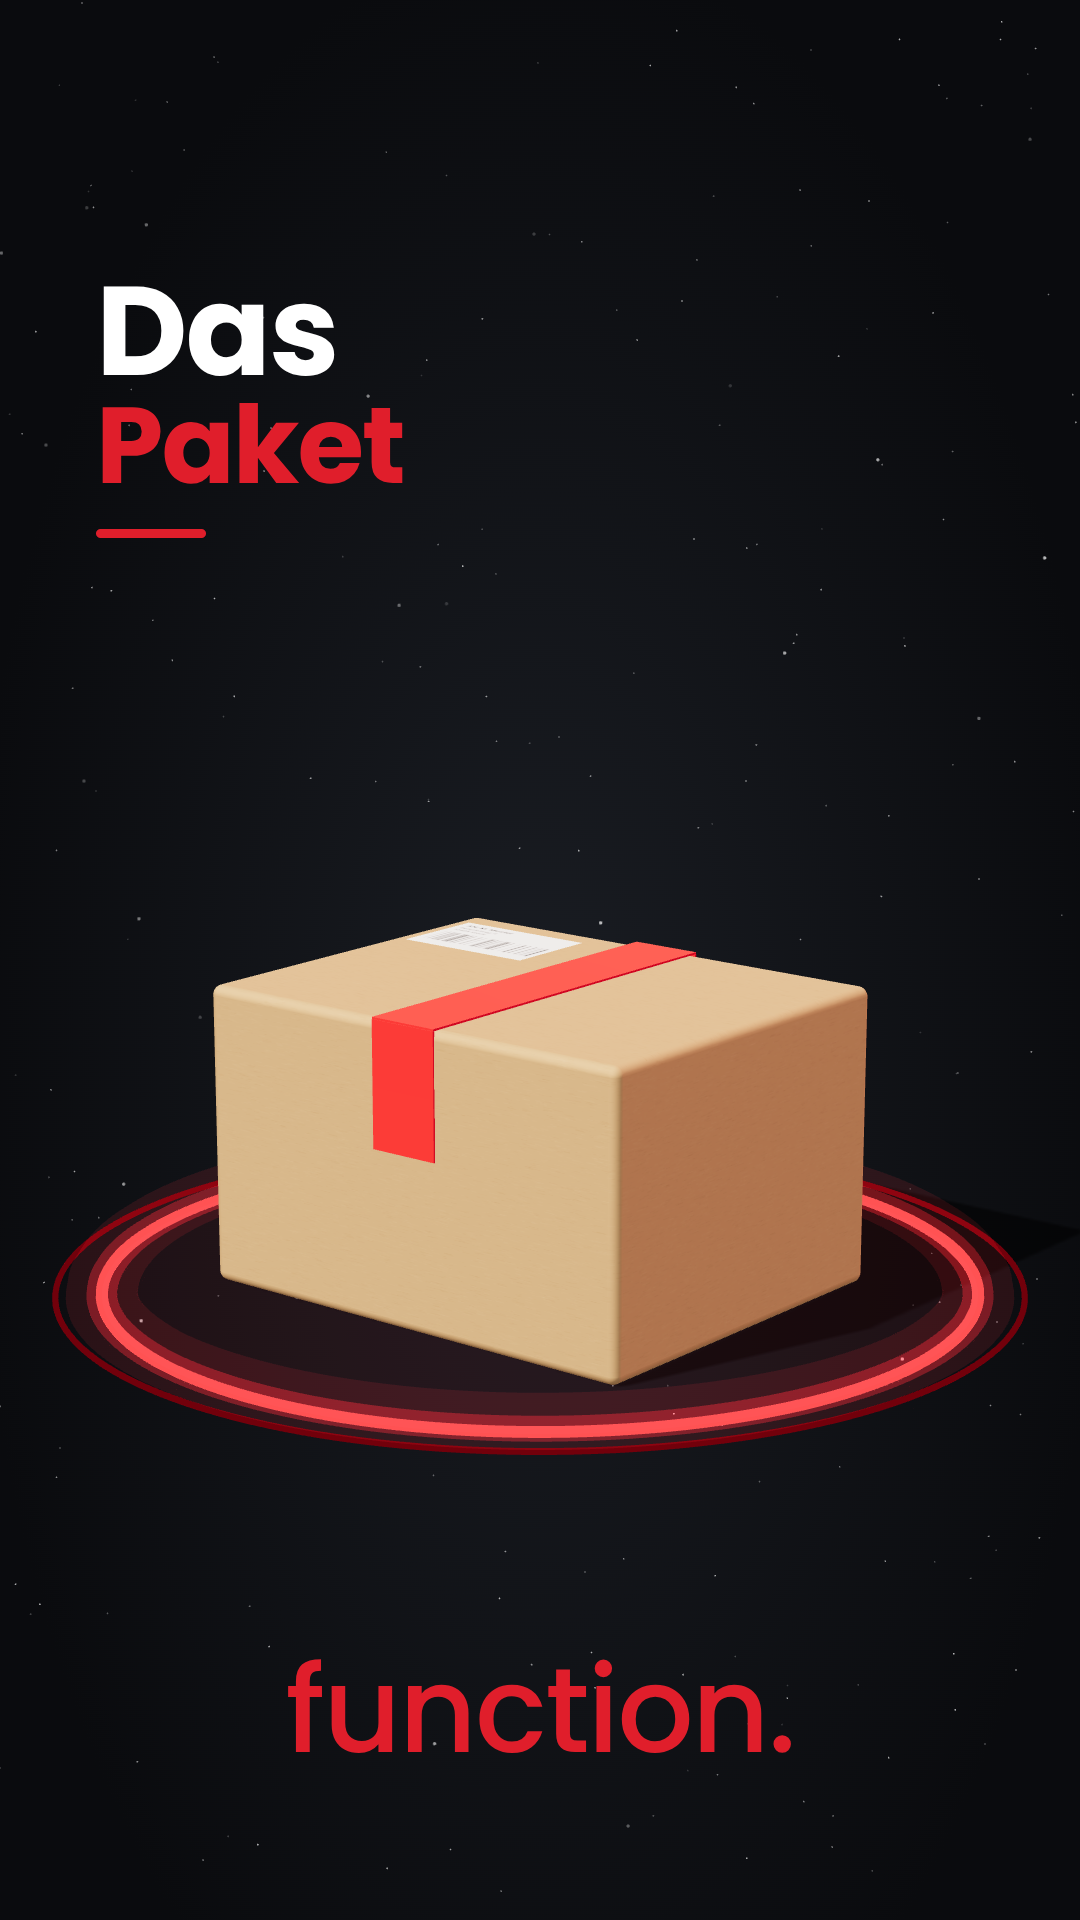
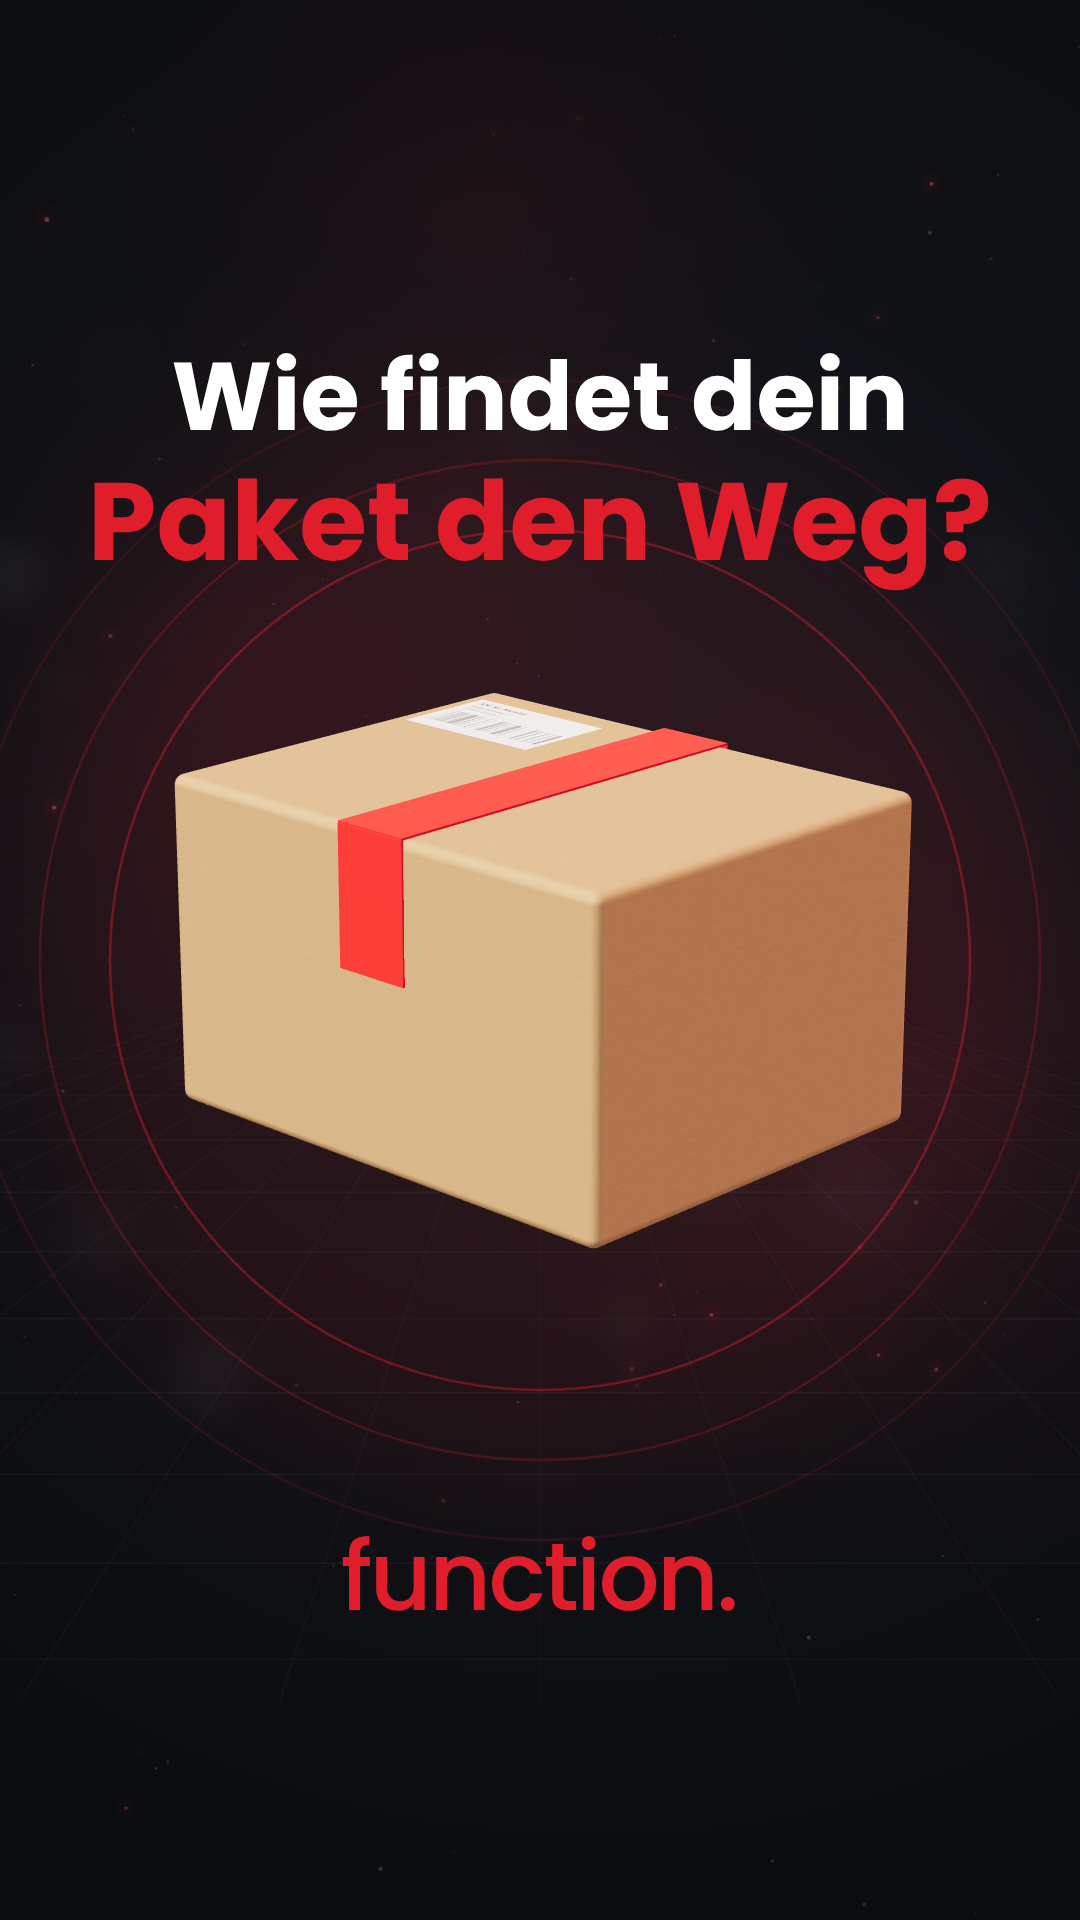
Paket: cover rebuilt 1:1 from old cover template, cover rule in CLAUDE.md
Claude-Session: https://claude.ai/code/session_01JQEQekkBb92rcFjdCYtWsZ

diff --git a/paket-test/cover.html b/paket-test/cover.html
@@ -3,60 +3,75 @@
 <style>
 @font-face{font-family:Poppins;font-weight:500;src:url(node_modules/@fontsource/poppins/files/poppins-latin-500-normal.woff2)}
 @font-face{font-family:Poppins;font-weight:700;src:url(node_modules/@fontsource/poppins/files/poppins-latin-700-normal.woff2)}
-html,body{margin:0;width:1080px;height:1920px;overflow:hidden;font-family:Poppins}
-body{background:radial-gradient(ellipse at 50% 55%,#1A1D23 0%,#0A0B0E 75%)}
-#stars,#gl{position:absolute;left:0;top:0}
-#title{position:absolute;left:96px;top:270px;line-height:.98}
-#t1{color:#fff;font-weight:700;font-size:126px;letter-spacing:-2px}
-#t2{color:#E01E2B;font-weight:700;font-size:108px;letter-spacing:-2px}
-#bar{width:110px;height:9px;background:#E01E2B;border-radius:5px;margin-top:30px}
-#logo{position:absolute;left:0;right:0;bottom:120px;text-align:center;color:#E01E2B;font-weight:500;font-size:120px;letter-spacing:-2px}
+html,body{margin:0;width:1080px;height:1920px;overflow:hidden;background:#0A0B0E}
+canvas{position:absolute;left:0;top:0}
 </style></head><body>
-<canvas id="stars" width="1080" height="1920"></canvas>
-<div id="title"><div id="t1">Das</div><div id="t2">Paket</div><div id="bar"></div></div>
-<div id="logo">function.</div>
+<canvas id="bg" width="1080" height="1920"></canvas>
+<canvas id="fg" width="1080" height="1920"></canvas>
 <script type="importmap">{"imports":{"three":"./node_modules/three/build/three.module.js","three/addons/":"./node_modules/three/examples/jsm/"}}</script>
 <script type="module">
+// Layout 1:1 from the old covers (toolkit cover6.py / cover7.py, render3.atmosphere)
 import * as THREE from 'three';
 import {RoundedBoxGeometry} from 'three/addons/geometries/RoundedBoxGeometry.js';
 import {RoomEnvironment} from 'three/addons/environments/RoomEnvironment.js';
-await Promise.all(['500 20px Poppins','700 96px Poppins'].map(f=>document.fonts.load(f)));
-// stars
-{const c=document.getElementById('stars').getContext('2d');let s=7;const r=()=>(s=(s*16807)%2147483647)/2147483647;
- for(let i=0;i<260;i++){const x=r()*1080,y=r()*1920,a=.15+r()*.55,R=r()<.1?1.6:0.9;c.fillStyle=`rgba(255,255,255,${a})`;c.beginPath();c.arc(x,y,R,0,7);c.fill();}}
-const W=1080,H=1920;
+await Promise.all(['500 96px Poppins','700 96px Poppins','600 30px Poppins'].map(f=>document.fonts.load(f)));
+const W=1080,H=1920,RED='#E01E2B',v=6.0;
+const cl=x=>Math.max(0,Math.min(1,x));
+let seed=21;const R=()=>(seed=(seed*16807)%2147483647)/2147483647;const U=(a,b)=>a+(b-a)*R();
+const DUST=[...Array(140)].map(()=>[R()*W,R()*H,U(.8,2.4),U(6,30),R(),U(.3,1)]);
+const BOKEH=[...Array(22)].map(()=>[R()*W,U(300,1500),U(18,60),U(.15,.5),R()]);
+const EMBER=[...Array(34)].map(()=>[R()*W,R(),U(40,110),U(1.5,3.5),R()]);
+const bg=document.getElementById('bg').getContext('2d');
+const circ=(c,x,y,r,col,a,blur=0)=>{c.save();c.globalAlpha=Math.max(0,Math.min(1,a));if(blur)c.filter=`blur(${blur}px)`;c.fillStyle=col;c.beginPath();c.arc(x,y,r,0,7);c.fill();c.restore();};
+function rgba(h,a){const n=parseInt(h.slice(1),16);return `rgba(${n>>16},${(n>>8)&255},${n&255},${a})`;}
+// ---- atmosphere(cv, 6.0)
+bg.fillStyle='#0A0B0E';bg.fillRect(0,0,W,H);
+{const g=bg.createRadialGradient(540+60*Math.sin(v*.2),820,0,540+60*Math.sin(v*.2),820,1150);g.addColorStop(0,'#17191F');g.addColorStop(1,'#0A0B0E');bg.fillStyle=g;bg.fillRect(0,0,W,H);}
+[[200,600,420],[900,1100,480],[600,300,360]].forEach(([bx,by,r],i)=>{const x=bx+120*Math.sin(v*.13+i*2),y=by+90*Math.cos(v*.11+i);
+  const g=bg.createRadialGradient(x,y,0,x,y,r);g.addColorStop(0,rgba(RED,.07));g.addColorStop(1,rgba(RED,0));bg.fillStyle=g;bg.beginPath();bg.arc(x,y,r,0,7);bg.fill();});
+{const hz=980,vp=540;bg.strokeStyle=rgba('#C9CDD4',.035);bg.lineWidth=1.5;
+ for(let k=-9;k<=9;k++){bg.beginPath();bg.moveTo(vp+k*26,hz);bg.lineTo(vp+k*260,1700);bg.stroke();}
+ for(let j=0;j<14;j++){const y=hz+(1700-hz)*((j+(v*.6)%1)/14)**2;const a=.05*cl((y-hz)/200);bg.strokeStyle=rgba('#C9CDD4',a);bg.beginPath();bg.moveTo(0,y);bg.lineTo(W,y);bg.stroke();}}
+for(const [x,y,r,sp,ph] of BOKEH){const xx=((x+v*14*sp)%(W+200))-100,yy=y+30*Math.sin(v*sp+ph*6);circ(bg,xx,yy,r,'#9AA0AA',.035+.025*Math.sin(v*.7+ph*5),r*.45);}
+for(const [x,y,r,sp,ph,dp] of DUST){const yy=(((y-v*sp)%H)+H)%H,xx=((x+18*Math.sin(v*.35+ph*6)+v*6*dp)%W+W)%W;circ(bg,xx,yy,r*dp,'#B8BEC8',(.12+.1*Math.sin(v*1.3+ph*9))*dp);}
+for(const [x,y0,sp,r,ph] of EMBER){const yy=H-((y0*H+v*sp)%(H+200)),xx=x+25*Math.sin(v*.8+ph*7);const a=.35*(.5+.5*Math.sin(v*2+ph*11));circ(bg,xx,yy,r*2.6,RED,a*.35,r*2);circ(bg,xx,yy,r*.7,'#FF7A82',a);}
+// ---- red glow + rings behind the motif (cover6)
+circ(bg,540,960,520,RED,.10,70);
+for(const [r,a] of [[430,.4],[500,.22],[580,.12]]){bg.save();bg.globalAlpha=a;bg.strokeStyle=RED;bg.lineWidth=2.5;bg.beginPath();bg.arc(540,960,r,0,7);bg.stroke();bg.restore();}
+
+// ---- 3D parcel (motif) centred in the rings
 const renderer=new THREE.WebGLRenderer({antialias:true,alpha:true,preserveDrawingBuffer:true});
-renderer.setSize(W,H);renderer.setPixelRatio(1);renderer.domElement.id='gl';
-renderer.toneMapping=THREE.ACESFilmicToneMapping;renderer.toneMappingExposure=1.15;renderer.outputColorSpace=THREE.SRGBColorSpace;
-renderer.shadowMap.enabled=true;renderer.shadowMap.type=THREE.PCFSoftShadowMap;
-document.body.insertBefore(renderer.domElement,document.getElementById('title'));
-const scene=new THREE.Scene();
-const pm=new THREE.PMREMGenerator(renderer);scene.environment=pm.fromScene(new RoomEnvironment(),0.04).texture;scene.environmentIntensity=0.5;
-const cam=new THREE.PerspectiveCamera(30,W/H,0.1,100);cam.position.set(2.2,2.23,6.36);cam.lookAt(0,0.35,0);
-// shift view so the parcel sits slightly below center
-cam.setViewOffset(W,H,0,-150,W,H);
+renderer.setSize(W,H);renderer.setPixelRatio(1);renderer.toneMapping=THREE.ACESFilmicToneMapping;renderer.toneMappingExposure=1.15;renderer.outputColorSpace=THREE.SRGBColorSpace;
+renderer.domElement.style.position='absolute';document.body.insertBefore(renderer.domElement,document.getElementById('fg'));
+const scene=new THREE.Scene();const pm=new THREE.PMREMGenerator(renderer);scene.environment=pm.fromScene(new RoomEnvironment(),0.04).texture;scene.environmentIntensity=0.5;
+const cam=new THREE.PerspectiveCamera(30,W/H,0.1,100);cam.position.set(2.35,2.3,5.4);cam.lookAt(0,0.3,0);
 scene.add(new THREE.HemisphereLight(0xdfe8ff,0x1a0a0a,0.6));
-const key=new THREE.DirectionalLight(0xfff4e6,2.6);key.position.set(-3,5,4);key.castShadow=true;key.shadow.mapSize.set(2048,2048);key.shadow.radius=6;scene.add(key);
-const rim=new THREE.DirectionalLight(0xff4050,1.4);rim.position.set(3,1.5,-3);scene.add(rim);
+const key=new THREE.DirectionalLight(0xfff4e6,2.6);key.position.set(-3,5,4);scene.add(key);
+const rim=new THREE.DirectionalLight(0xff4050,1.6);rim.position.set(3,1.5,-3);scene.add(rim);
 function canvasTex(w,h,draw){const c=document.createElement('canvas');c.width=w;c.height=h;draw(c.getContext('2d'),w,h);const t=new THREE.CanvasTexture(c);t.colorSpace=THREE.SRGBColorSpace;t.anisotropy=8;return t;}
-let s=3;const rnd=()=>(s=(s*16807)%2147483647)/2147483647;
-const kraft=canvasTex(512,512,(g,w,h)=>{g.fillStyle='#b48a5e';g.fillRect(0,0,w,h);for(let i=0;i<9000;i++){const a=rnd()*.06;g.fillStyle=rnd()>.5?`rgba(80,50,25,${a})`:`rgba(235,200,150,${a})`;g.fillRect(rnd()*w,rnd()*h,2+rnd()*10,1);}});
+let s2=3;const rr=()=>(s2=(s2*16807)%2147483647)/2147483647;
+const kraft=canvasTex(512,512,(g,w,h)=>{g.fillStyle='#b48a5e';g.fillRect(0,0,w,h);for(let i=0;i<9000;i++){const a=rr()*.06;g.fillStyle=rr()>.5?`rgba(80,50,25,${a})`:`rgba(235,200,150,${a})`;g.fillRect(rr()*w,rr()*h,2+rr()*10,1);}});
 const label=canvasTex(512,340,(g)=>{g.fillStyle='#f4f2ec';g.fillRect(0,0,512,340);g.fillStyle='#222';g.font='600 30px Poppins';g.fillText('AN: M. Muster',28,52);
   g.font='500 24px Poppins';g.fillText('Beispielweg 11',28,88);g.fillText('10485 Stadt',28,120);let x=28,q=7;const r=()=>(q=(q*48271)%2147483647)/2147483647;g.fillStyle='#111';while(x<484){const w=2+Math.floor(r()*6);if(r()>.4)g.fillRect(x,150,w,130);x+=w+2;}});
-const w=1.0,h=0.6,d=0.8,S=1.0;
-const g=new THREE.Group();scene.add(g);g.rotation.y=-0.35;g.scale.setScalar(1.0);
-const b=new THREE.Mesh(new RoundedBoxGeometry(w,h,d,4,0.02),new THREE.MeshStandardMaterial({color:0xffffff,map:kraft,roughness:.85}));b.position.y=h/2;b.castShadow=true;g.add(b);
+const w=1.0,h=0.6,d=0.8;const gp=new THREE.Group();scene.add(gp);gp.rotation.y=-0.35;gp.position.y=0.02;
+const b=new THREE.Mesh(new RoundedBoxGeometry(w,h,d,4,0.02),new THREE.MeshStandardMaterial({color:0xffffff,map:kraft,roughness:.85}));b.position.y=h/2;gp.add(b);
 const tm=new THREE.MeshStandardMaterial({color:0xd8141f,roughness:.3,envMapIntensity:1.3,emissive:0x2a0000});
-const t1=new THREE.Mesh(new THREE.BoxGeometry(.15,.004,d+.006),tm);t1.position.y=h+.002;g.add(t1);
-for(const z of [-1,1]){const t=new THREE.Mesh(new THREE.BoxGeometry(.15,h*.42,.004),tm);t.position.set(0,h*.79,z*(d/2+.002));g.add(t);}
-const lab=new THREE.Mesh(new THREE.PlaneGeometry(.3,.2),new THREE.MeshStandardMaterial({map:label,roughness:.55}));lab.rotation.x=-Math.PI/2;lab.position.set(-.3,h+.005,-.22);g.add(lab);
-// floor for shadow only
-const sh=new THREE.Mesh(new THREE.PlaneGeometry(10,10),new THREE.ShadowMaterial({opacity:.55}));sh.rotation.x=-Math.PI/2;sh.receiveShadow=true;scene.add(sh);
-// lying red ring (glow) around parcel on the ground
-const ringR=0.86;
-function ring(r,tube,color,op){const m=new THREE.Mesh(new THREE.TorusGeometry(r,tube,16,160),new THREE.MeshBasicMaterial({color,transparent:true,opacity:op,depthWrite:false,blending:THREE.AdditiveBlending}));m.rotation.x=-Math.PI/2;m.position.y=.005;scene.add(m);return m;}
-ring(ringR,.012,0xff2a35,1);ring(ringR,.03,0xE01E2B,.35);ring(ringR,.07,0xE01E2B,.12);ring(ringR+.09,.006,0x6E0F16,1);
-const sh2=new THREE.Mesh(new THREE.CircleGeometry(ringR,96),new THREE.MeshBasicMaterial({color:0xE01E2B,transparent:true,opacity:.07,depthWrite:false}));sh2.rotation.x=-Math.PI/2;sh2.position.y=.003;scene.add(sh2);
+const t1=new THREE.Mesh(new THREE.BoxGeometry(.15,.004,d+.006),tm);t1.position.y=h+.002;gp.add(t1);
+for(const z of [-1,1]){const t=new THREE.Mesh(new THREE.BoxGeometry(.15,h*.42,.004),tm);t.position.set(0,h*.79,z*(d/2+.002));gp.add(t);}
+const lab=new THREE.Mesh(new THREE.PlaneGeometry(.3,.2),new THREE.MeshStandardMaterial({map:label,roughness:.55}));lab.rotation.x=-Math.PI/2;lab.position.set(-.3,h+.005,-.22);gp.add(lab);
+// centre the parcel on (540,960)
+cam.updateMatrixWorld();const c3=new THREE.Vector3(0,h/2,0).project(cam);const py=(1-c3.y)/2*H;cam.setViewOffset(W,H,0,py-960,W,H);
 renderer.render(scene,cam);
+// soft contact shadow under the parcel
+{const p=new THREE.Vector3(0,0,0).project(cam);}
+
+// ---- text exactly like the old covers (cover6): centred title, logo at 1610
+const fg=document.getElementById('fg').getContext('2d');
+function text(s,x,y,sz,col,align){fg.font=`700 ${sz}px Poppins`;const wd=fg.measureText(s).width;if(align==='c')x-=wd/2;fg.fillStyle=col;fg.fillText(s,x,y);}
+function tracked(s,x,y,sz,col,track){fg.font=`500 ${sz}px Poppins`;const ws=[...s].map(ch=>fg.measureText(ch).width);const tot=ws.reduce((a,b)=>a+b,0)+track*sz*(s.length-1);let xx=x-tot/2;fg.fillStyle=col;[...s].forEach((ch,i)=>{fg.fillText(ch,xx,y);xx+=ws[i]+track*sz;});}
+const P=new URLSearchParams(location.search);
+text(P.get('l1')||'Wie findet dein',540,430,96,'#FFFFFF','c');
+text(P.get('l2')||'Paket den Weg?',540,560,110,RED,'c');
+tracked('function.',540,1610,96,RED,-.03);
 window.ready=true;
 </script></body></html>

diff --git a/CLAUDE.md b/CLAUDE.md
@@ -7,4 +7,5 @@
   - Nicht gemocht: einfacher fliegender Punkt mit dunkler Vignette (Styleguide 6b in der Grundform) und die alte Partikel-Outro aus dem Branch `add-function-toolkit` (render.py → outro()).
 - **Musik:** im schraffuren-Stil (Instagram „schraffuren“, Original-Audio): weicher tiefer Puls ~100 BPM, Sub-Bass, leise luftige Fläche, fast keine Melodie/Hi-Hats, ca. 15 dB unter der Stimme (Referenz: `paket-test/music_variants.py` → `track_D`).
 - **Übergangs-Sounds:** keine Standard-Synth-Whooshes („hat jeder auf TikTok“). Für Wischer/Szenenwechsel die vom Nutzer gelieferten Epidemic-Sounds verwenden: `paket-test/sfx_epidemic/whoosh.mp3` (2 weiche Swooshes) und `clicks.mp3` (3 UI-Klicks, z. B. wenn eine Zahl erscheint).
+- **Cover:** exakt nach den alten Covern im Branch `add-function-toolkit` (cover6.py/cover7.py): Hintergrund „atmosphere“ (render3.py), roter Glow + 3 Ringe um das Motiv bei (540, 960), Titel ZENTRIERT – Zeile 1 weiß Poppins Bold 96 px Grundlinie y=430, Zeile 2 rot 110 px y=560 (Fragestil), Logo „function.“ Poppins Medium 96 px, Tracking −0,03, zentriert y=1610. Vorlage: `paket-test/cover.html`.
 - Referenz-Umsetzung: `paket-test/v4.html` → `drawOutro()`, Ton in `paket-test/audio2.py` (Abschnitt „outro (themed …)“).
